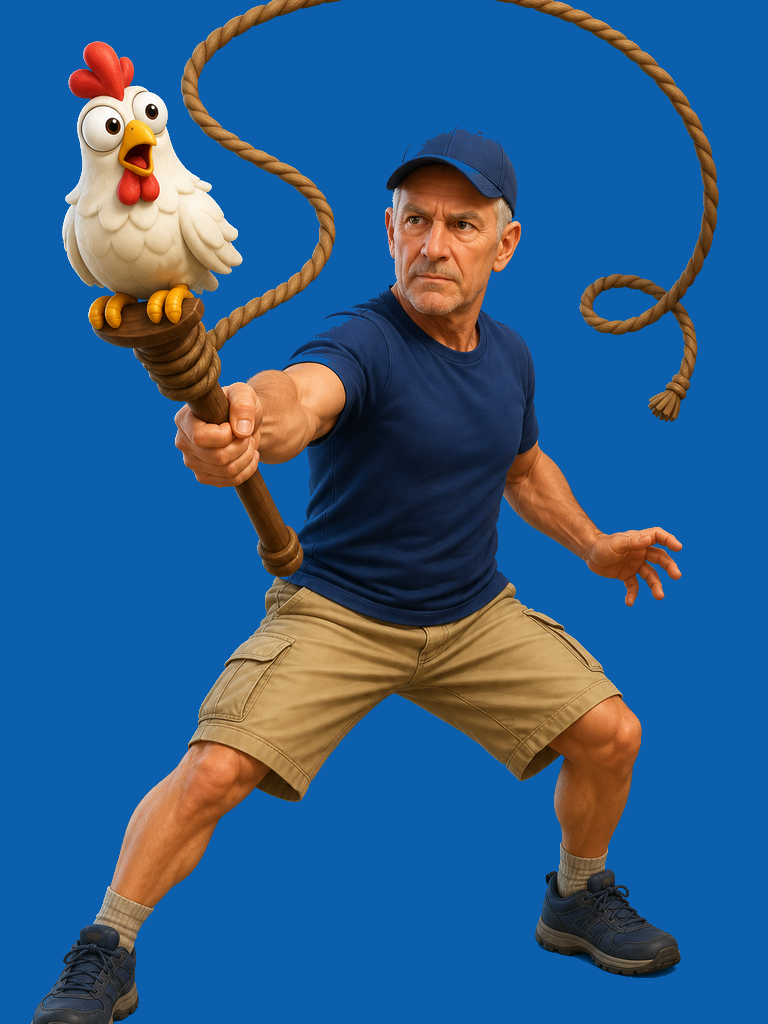
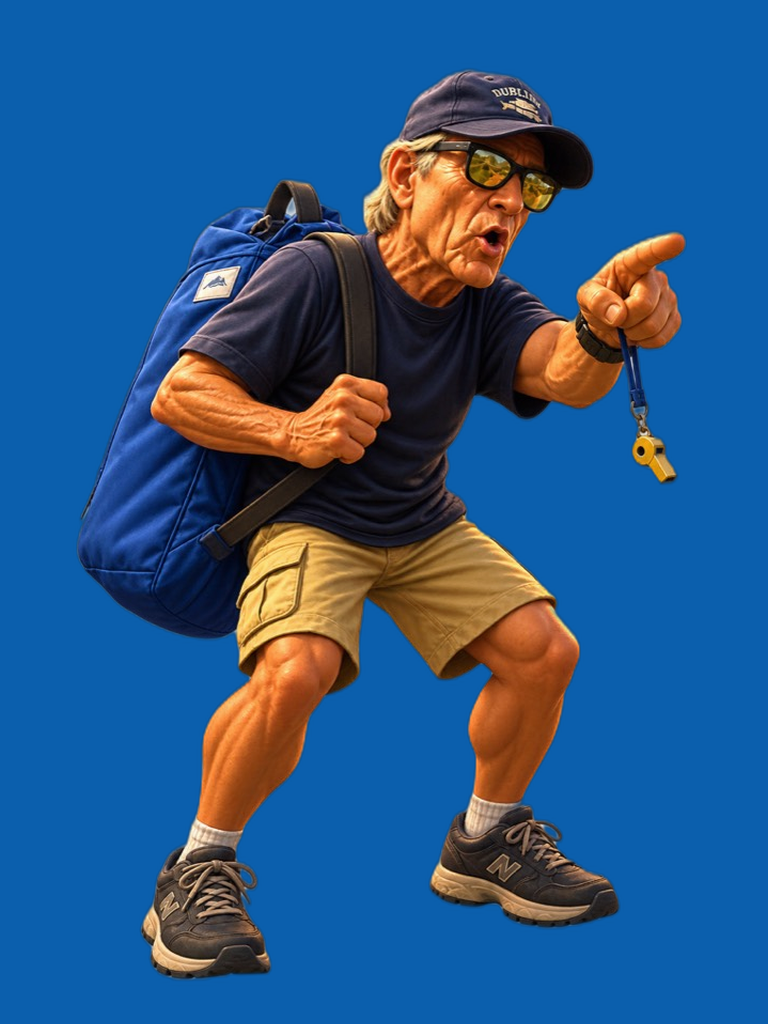
feat(philroyale): update Phil card and battlefield art
New coach crouch photo on shared blue card background; matching troop
front/back for the battlefield.

diff --git a/philroyale/src/characters/PhilModel.tsx b/philroyale/src/characters/PhilModel.tsx
@@ -14,7 +14,7 @@ type Props = {
   portrait?: boolean
 }
 
-/** Phil — card art; front/back 3D troop with sundae throw + whip overlays. */
+/** Phil — coach crouch with backpack; sundae throw + whip overlays. */
 export function PhilModel({ anim, facing, attackId, portrait }: Props) {
   const attack =
     anim === 'attack' && attackId === 'chickenWhip'
@@ -31,12 +31,10 @@ export function PhilModel({ anim, facing, attackId, portrait }: Props) {
       anim={anim}
       facing={facing}
       portrait={portrait}
-      objectPos="50% 22%"
+      objectPos="50% 16%"
       gait="jog"
       attack={attack}
-      spriteLegs
-      legColor="#c4a06a"
-      shoeColor="#1e3a6e"
+      spriteLegs={false}
     />
   )
 }
